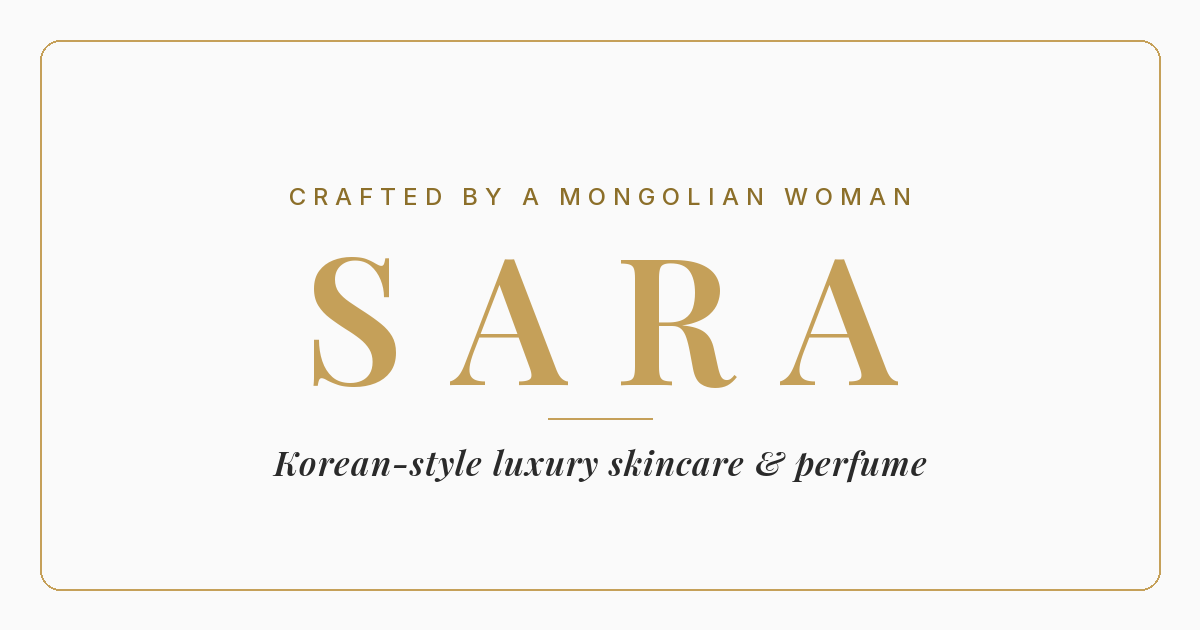
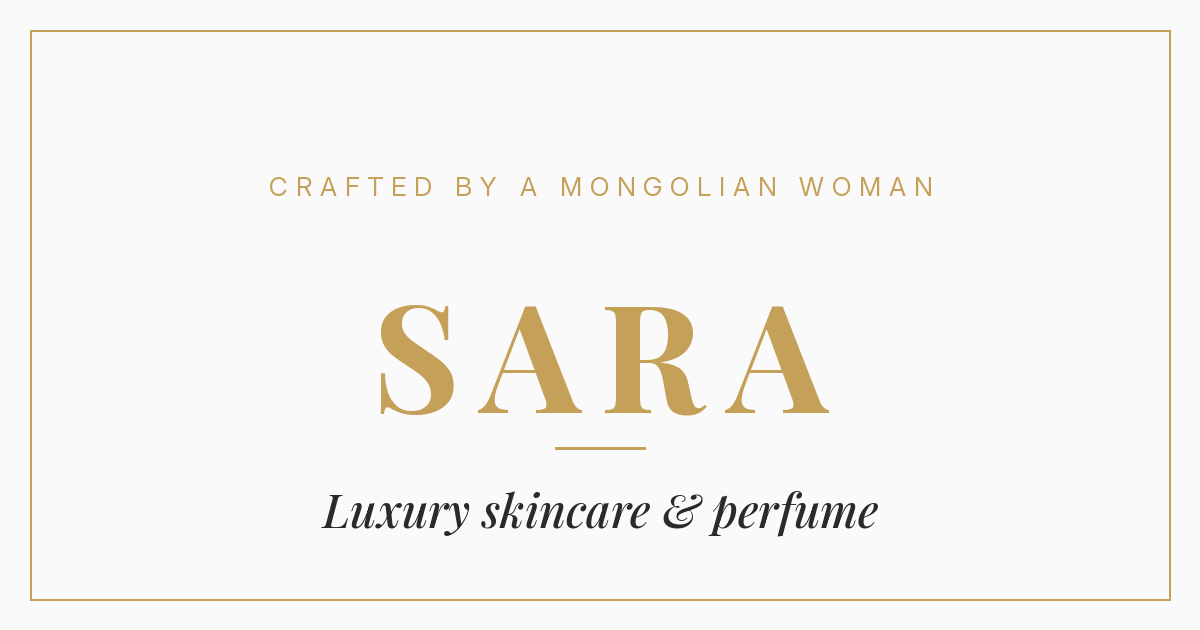
index.html: ensure "Korean-style" gone from meta text (~150-char description)
Title/OG/Twitter titles + descriptions already read "Luxury skincare & perfume"
(de-Koreanized earlier); restored the description to ~150 chars by adding
"refined" after removing the qualifier shortened it. Also commits the
regenerated og-image.png whose tagline now reads "Luxury skincare & perfume".
canonical, theme-color, favicon, apple-touch-icon and the og:image URL are
unchanged.

diff --git a/index.html b/index.html
@@ -8,7 +8,7 @@
     <title>SARA — Luxury skincare &amp; perfume</title>
     <meta
       name="description"
-      content="SARA is a Mongolian-crafted luxury beauty house — skincare, perfume and gift sets made with naturally derived formulas to love your skin."
+      content="SARA is a Mongolian-crafted luxury beauty house — refined skincare, perfume and gift sets made with naturally derived formulas to love your skin."
     />
     <meta name="theme-color" content="#C5A059" />
     <meta name="robots" content="index, follow" />
@@ -24,7 +24,7 @@
     <meta property="og:title" content="SARA — Luxury skincare &amp; perfume" />
     <meta
       property="og:description"
-      content="SARA is a Mongolian-crafted luxury beauty house — skincare, perfume and gift sets made with naturally derived formulas to love your skin."
+      content="SARA is a Mongolian-crafted luxury beauty house — refined skincare, perfume and gift sets made with naturally derived formulas to love your skin."
     />
     <meta property="og:url" content="https://sarabrand.mn/" />
     <meta property="og:image" content="https://sarabrand.mn/og-image.png" />
@@ -38,7 +38,7 @@
     <meta name="twitter:title" content="SARA — Luxury skincare &amp; perfume" />
     <meta
       name="twitter:description"
-      content="SARA is a Mongolian-crafted luxury beauty house — skincare, perfume and gift sets made with naturally derived formulas to love your skin."
+      content="SARA is a Mongolian-crafted luxury beauty house — refined skincare, perfume and gift sets made with naturally derived formulas to love your skin."
     />
     <meta name="twitter:image" content="https://sarabrand.mn/og-image.png" />
     <meta name="twitter:image:alt" content="SARA — Luxury skincare & perfume" />